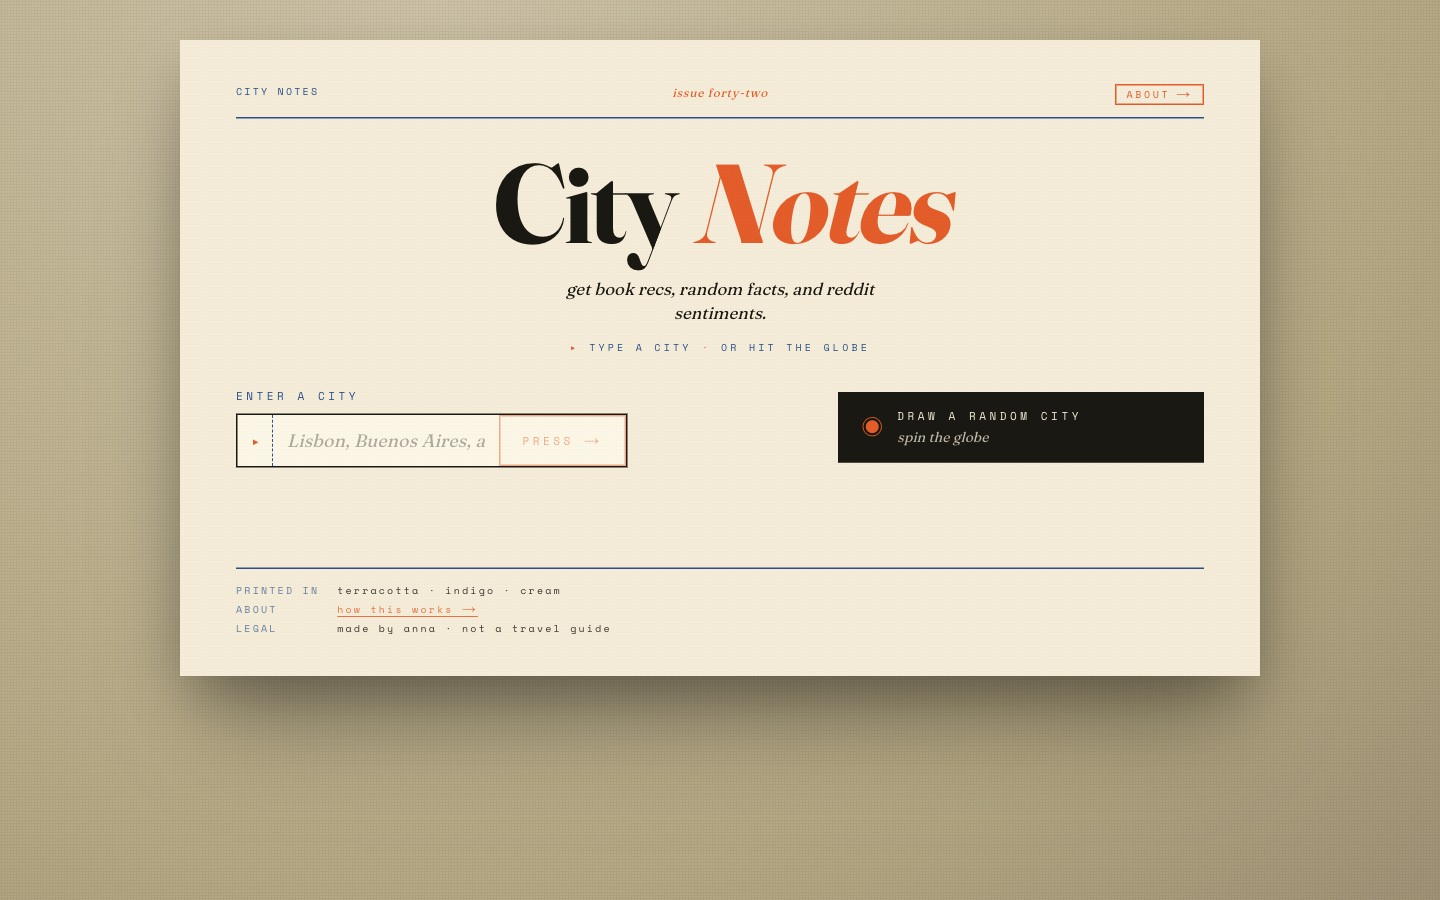
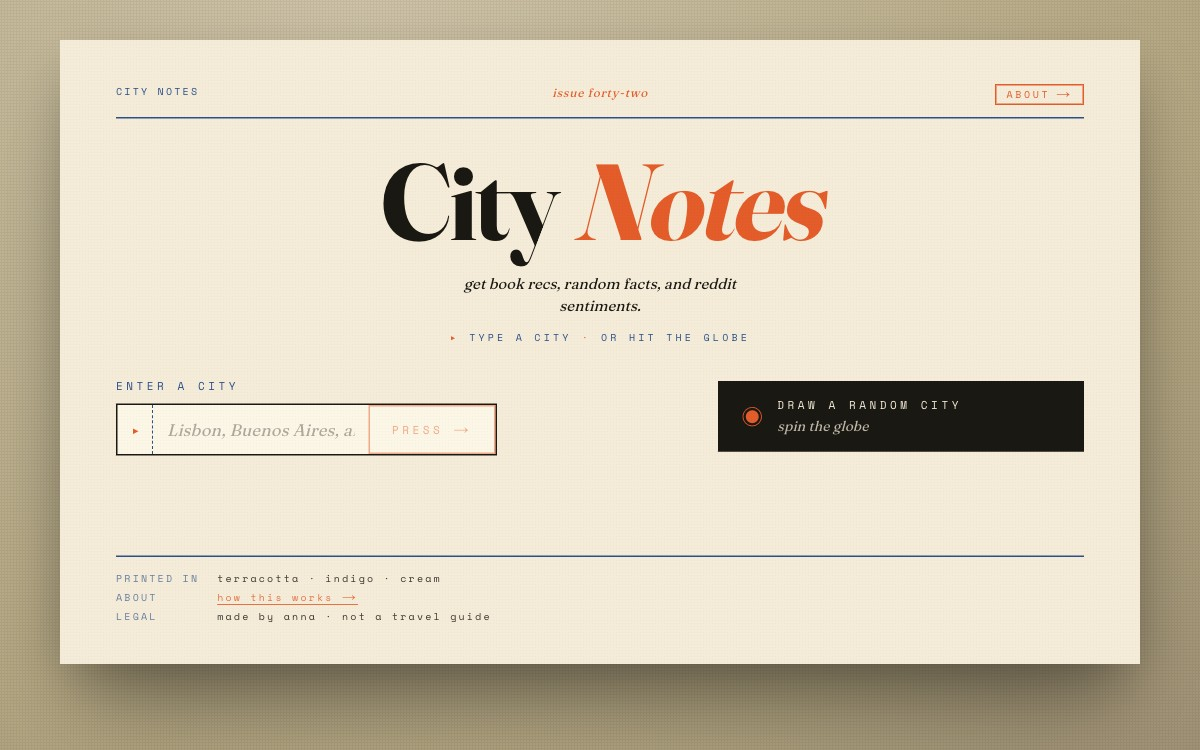
Redesign hero (two-column) and tighten AI cards
- Two-column hero fills the fold, removes right-side dead space; reduce top padding
- Bottom-align card pills; tighten section spacing
- Re-shot City Notes + Daily Spend thumbnails at tighter crops
- Hero copy: "City Notes + more"

diff --git a/index.html b/index.html
@@ -30,13 +30,14 @@
   .wrap{max-width:1180px;margin:0 auto;padding:0 var(--pad)}
 
   /* ---------- hero ---------- */
-  .hero{padding:16vh 0 9vh}
+  .hero{padding:11vh 0 7vh;display:grid;grid-template-columns:1.05fr .95fr;gap:clamp(32px,6vw,90px);align-items:end}
   .hero h1{font-weight:400;font-size:clamp(40px,7.5vw,82px);line-height:.98;letter-spacing:-.02em}
-  .hero .intro{margin-top:8vh;max-width:30ch;font-weight:400;font-size:clamp(20px,2.4vw,30px);line-height:1.32;letter-spacing:-.01em}
+  .hero .intro{margin-top:0;max-width:36ch;font-weight:400;font-size:clamp(20px,2.4vw,30px);line-height:1.32;letter-spacing:-.01em}
   .hero .intro .t{color:var(--muted)}
+  @media (max-width:780px){.hero{grid-template-columns:1fr;gap:6vh;align-items:start}.hero .intro{margin-top:2vh}}
 
   /* ---------- featured AI cards ---------- */
-  .featured{padding-bottom:8vh}
+  .featured{padding-bottom:6vh}
   .fcards{display:grid;grid-template-columns:repeat(3,1fr);gap:clamp(16px,2vw,26px);margin-top:8px}
   .fcard{display:flex;flex-direction:column;border:1px solid var(--hairline);background:#fbfaf4;
     transition:transform var(--hover),box-shadow var(--hover),border-color var(--hover)}
@@ -49,8 +50,8 @@
   .ftitle{font-size:clamp(20px,1.7vw,24px);letter-spacing:-.02em;line-height:1.05}
   .farrow{color:var(--muted);font-size:15px;flex:0 0 auto;transition:transform var(--hover),color var(--hover)}
   .fcard:hover .farrow{color:var(--fg);transform:translate(2px,-2px)}
-  .ftag{color:#4a4840;font-size:14px;line-height:1.5;flex:1}
-  .fpills{display:flex;flex-wrap:wrap;gap:6px;margin-top:2px}
+  .ftag{color:#4a4840;font-size:14px;line-height:1.5}
+  .fpills{display:flex;flex-wrap:wrap;gap:6px;margin-top:auto;padding-top:14px}
   .fpills span{font-size:10px;text-transform:uppercase;letter-spacing:var(--ls);color:var(--muted);
     border:1px solid var(--hairline);border-radius:999px;padding:5px 9px}
   @media (max-width:780px){.fcards{grid-template-columns:1fr}}
@@ -136,7 +137,7 @@
   <main class="wrap" id="top">
     <section class="hero">
       <h1>Anna Jay ~<br>Group Product<br>Manager.</h1>
-      <p class="intro">By day, shaping the operating system for summer camp, at Campminder. The rest of the time <span class="t">~ vibe coding,</span> City Notes <span class="t">~ designing and manufacturing,</span> Otic Acoustic Art <span class="t">~ moving units with</span> DriveSlide <span class="t">~ reminiscing and missing,</span> MacGuffin Kitchen <span class="t">~</span></p>
+      <p class="intro">By day, shaping the operating system for summer camp, at Campminder. The rest of the time <span class="t">~ vibe coding,</span> City Notes + more <span class="t">~ designing and manufacturing,</span> Otic Acoustic Art <span class="t">~ moving units with</span> DriveSlide <span class="t">~ reminiscing and missing,</span> MacGuffin Kitchen <span class="t">~</span></p>
     </section>
 
     <section class="featured">